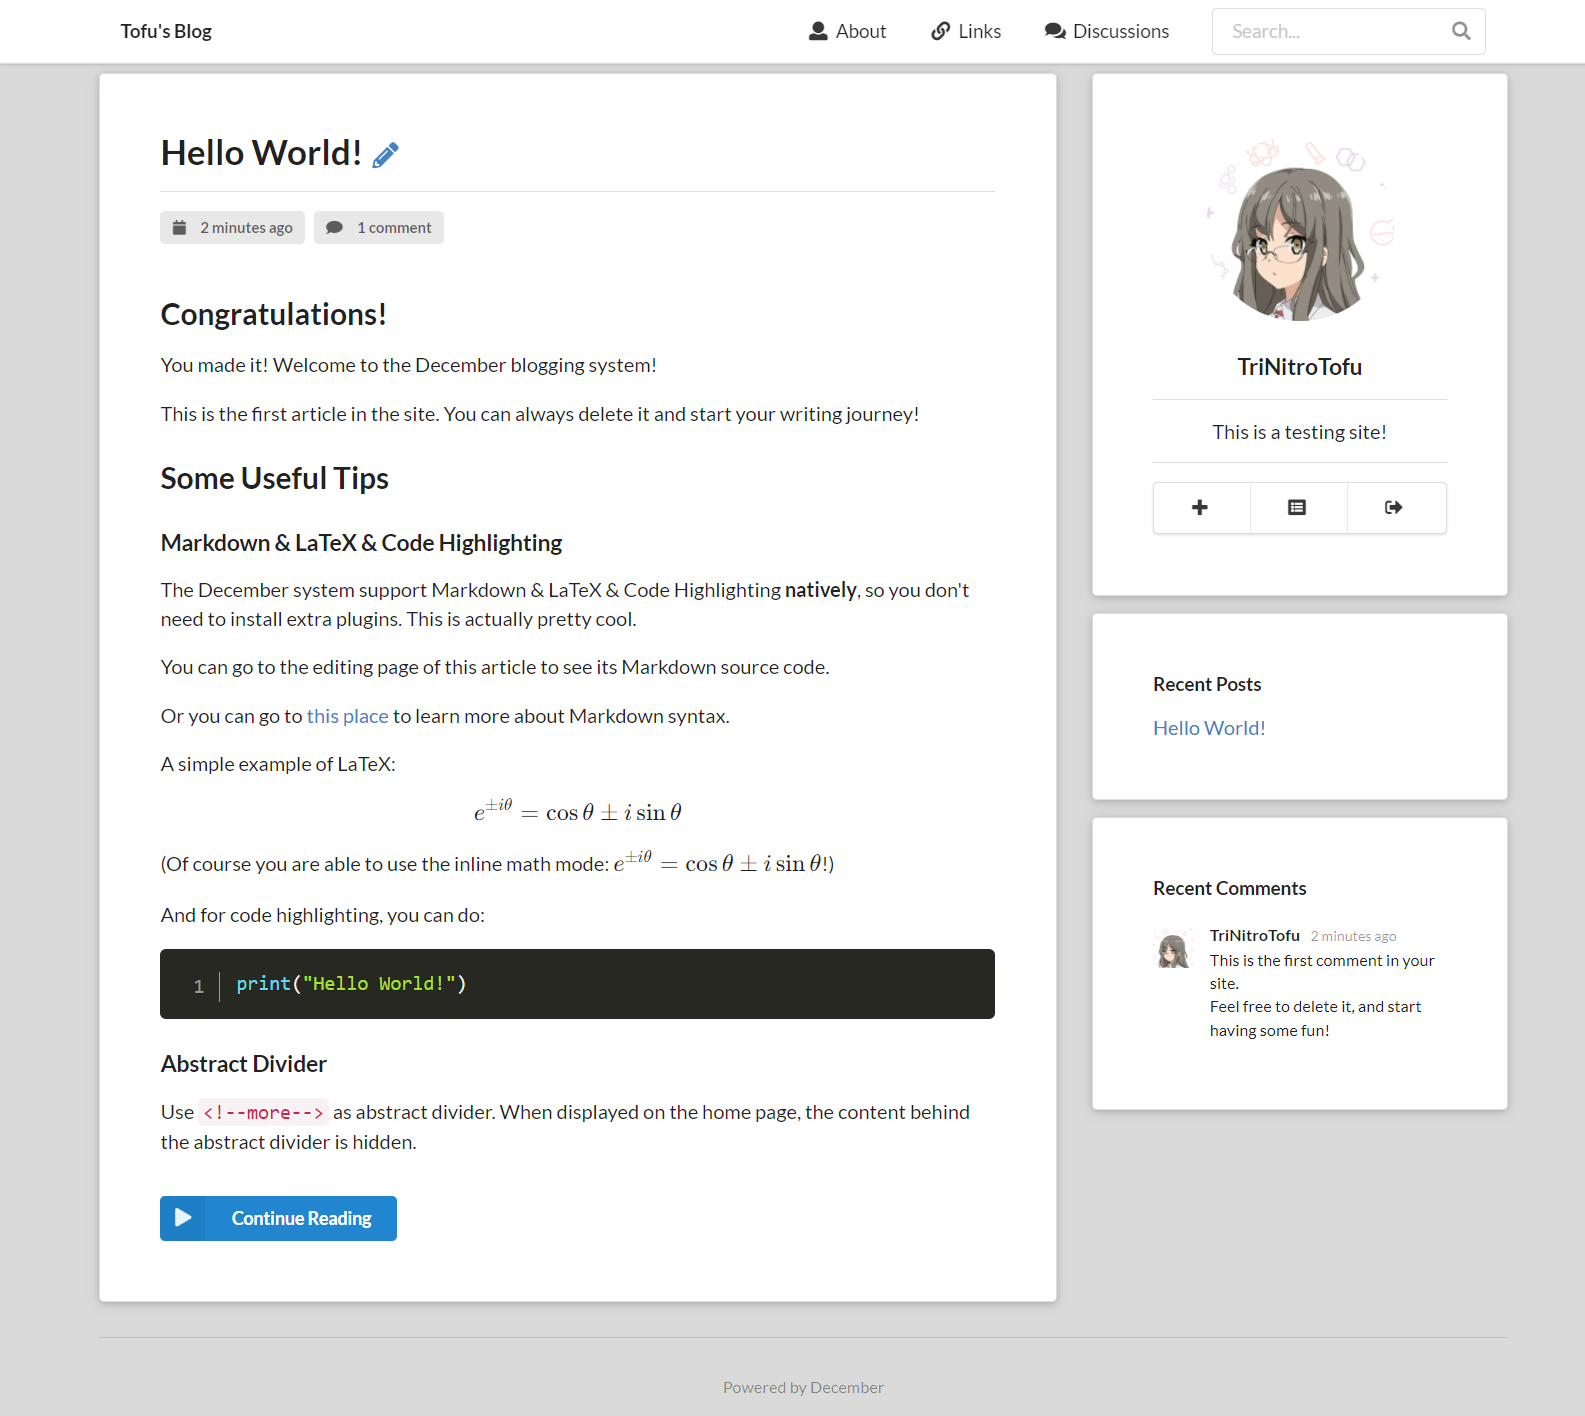
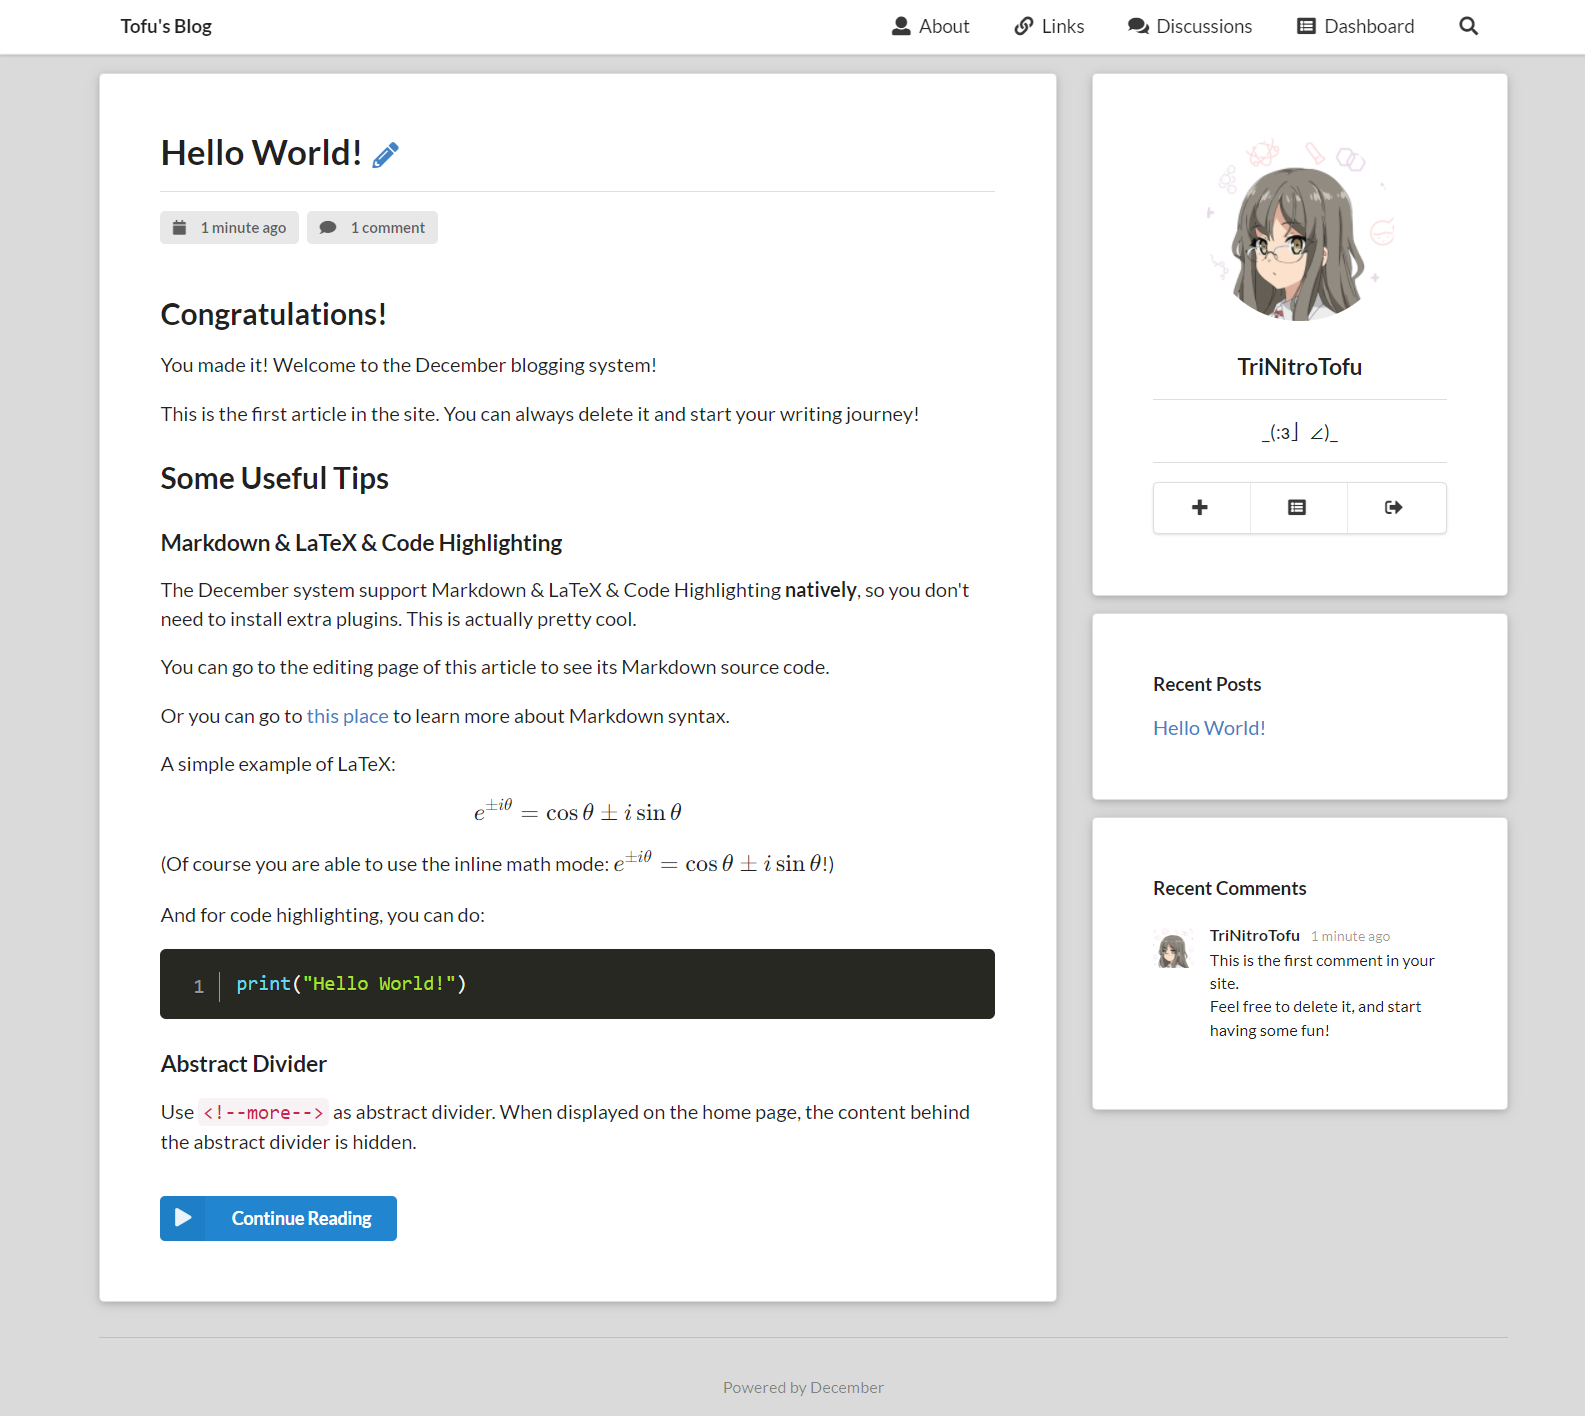
1.4.1

diff --git a/December/templates/edit_comment.html b/December/templates/edit_comment.html
@@ -33,7 +33,7 @@
               </a>
             </h4>
             <div class="required field">
-              <textarea name="comment-content" rows="16" required>{{ comment_content }}</textarea>
+              <textarea name="comment-content" rows="18" required>{{ comment_content }}</textarea>
             </div>
             <button id="save-btn" class="ui primary labeled submit icon button" type="submit">
               <i class="save icon"></i> Save
@@ -41,29 +41,34 @@
             <div id="delete-btn" class="ui red labeled submit icon button">
               <i class="trash icon"></i> Delete
             </div>
-            <div class="ui tiny modal">
-              <i class="close icon"></i>
-              <div class="header">
-                Warning
+            <div id="delete-modal" class="ui basic tiny modal">
+              <div class="ui header">
+                Warning!
               </div>
               <div class="content">
-                  <p>Are you sure you want to delete this comment?</p>
-                  <p>This will also delete all subcomments belonging to this comment.</p>
-                  <p>This action cannot be undone!</p>
+                <p>Are you sure you want to delete this comment?</p>
+                <p>This will also delete all replies belonging to this comment.</p>
+                <p>This action cannot be undone!</p>
               </div>
               <div class="actions">
-                <div id="modal-cancel" class="ui button">Cancel</div>
-                <div id="modal-confirm" class="ui red button">Delete</div>
+                <div class="ui basic cancel inverted button">
+                  <i class="remove icon"></i>
+                  Cancel
+                </div>
+                <div class="ui red confirm inverted button">
+                  <i class="trash icon"></i>
+                  Delete
+                </div>
               </div>
             </div>
             <script>
               $('#delete-btn').click(function() {
-                $('.ui.modal').modal('show');
+                $('#delete-modal').modal('show');
               });
-              $('#modal-cancel').click(function() {
-                $('.ui.modal').modal('hide');
+              $('#delete-modal .cancel').click(function() {
+                $('#delete-modal').modal('hide');
               });
-              $('#modal-confirm').click(function() {
+              $('#delete-modal .confirm').click(function() {
                 window.location.href = "/admin/edit-comment/{{ cid }}?action=delete"
               });
             </script>

diff --git a/December/templates/edit.html b/December/templates/edit.html
@@ -49,29 +49,34 @@
             <div id="delete-btn" class="ui red labeled submit icon button">
               <i class="trash icon"></i> Delete
             </div>
-            <div class="ui tiny modal">
-              <i class="close icon"></i>
-              <div class="header">
-                Warning
+            <div id="delete-modal" class="ui basic tiny modal">
+              <div class="ui header">
+                Warning!
               </div>
               <div class="content">
-                  <p>Are you sure you want to delete this article?</p>
-                  <p>This will also delete all comments belonging to this article.</p>
-                  <p>This action cannot be undone!</p>
+                <p>Are you sure you want to delete this article?</p>
+                <p>This will also delete all comments belonging to this article.</p>
+                <p>This action cannot be undone!</p>
               </div>
               <div class="actions">
-                <div id="modal-cancel" class="ui button">Cancel</div>
-                <div id="modal-confirm" class="ui red button">Delete</div>
+                <div class="ui basic cancel inverted button">
+                  <i class="remove icon"></i>
+                  Cancel
+                </div>
+                <div class="ui red confirm inverted button">
+                  <i class="trash icon"></i>
+                  Delete
+                </div>
               </div>
             </div>
             <script>
               $('#delete-btn').click(function() {
-                $('.ui.modal').modal('show');
+                $('#delete-modal').modal('show');
               });
-              $('#modal-cancel').click(function() {
-                $('.ui.modal').modal('hide');
+              $('#delete-modal .cancel').click(function() {
+                $('#delete-modal').modal('hide');
               });
-              $('#modal-confirm').click(function() {
+              $('#delete-modal .confirm').click(function() {
                 window.location.href = "/admin/edit/{{ pid }}?action=delete"
               });
             </script>

diff --git a/December/templates/media.html b/December/templates/media.html
@@ -60,7 +60,7 @@
             <tbody>
               {% for i in media_list %}
               <tr>
-                <td>
+                <td style="word-break: break-all;">
                   <a href="/media/{{ i.path }}" target="_blank">{{ i.name }}</a>
                 </td>
                 <td>{{ i.time }}</td>
@@ -85,30 +85,35 @@
       </div>
     </div>
   </div>
-  <div class="ui tiny modal">
-    <i class="close icon"></i>
-    <div class="header">
-      Warning
+  <div id="delete-modal" class="ui basic tiny modal">
+    <div class="ui header">
+      Warning!
     </div>
     <div class="content">
-        <p>Are you sure you want to delete this file?</p>
-        <p>This action cannot be undone!</p>
+      <p>Are you sure you want to delete this file?</p>
+      <p>This action cannot be undone!</p>
     </div>
     <div class="actions">
-      <div id="modal-cancel" class="ui button">Cancel</div>
-      <div id="modal-confirm" class="ui red button">Delete</div>
+      <div class="ui basic cancel inverted button">
+        <i class="remove icon"></i>
+        Cancel
+      </div>
+      <div class="ui red confirm inverted button">
+        <i class="trash icon"></i>
+        Delete
+      </div>
     </div>
   </div>
   <script>
     var delete_mid = 0;
     $('.delete-btn').click(function() {
       delete_mid = $(this).attr("data-media-id");
-      $('.ui.modal').modal('show');
+      $('#delete-modal').modal('show');
     });
-    $('#modal-cancel').click(function() {
-      $('.ui.modal').modal('hide');
+    $('#delete-modal .cancel').click(function() {
+      $('#delete-modal').modal('hide');
     });
-    $('#modal-confirm').click(function() {
+    $('#delete-modal .confirm').click(function() {
       window.location.href = "/admin/media?action=delete&mid=" + delete_mid;
     });
   </script>

diff --git a/December/templates/archives.html b/December/templates/archives.html
@@ -4,17 +4,18 @@
     {% for i in page_links %}
     <a class="item" href="{{ i.1 }}">{{ i.0|safe }}</a>
     {% endfor %}
-    {% if not logged_in %}
+    {% if logged_in %}
+    <a class="item" href="/admin">
+      <i class="list alternate icon"></i>Dashboard
+    </a>
+    {% else %}
     <a class="item" href="/login">
       <i class="sign in alternate icon"></i>Sign in
     </a>
     {% endif %}
-    <form class="item" action="/" method="get">
-      <div class="ui transparent icon input">
-        <input type="text" name="s" placeholder="Search..." value="{{ search_value }}">
-        <i class="search-btn search link icon"></i>
-      </div>
-    </form>
+    <a class="search item">
+      <i class="search icon"></i>Search
+    </a>
   </div>
   <div class="pusher">
     <div class="ui top fixed large borderless menu">
@@ -24,17 +25,18 @@
           {% for i in page_links %}
           <a class="item" href="{{ i.1 }}">{{ i.0|safe }}</a>
           {% endfor %}
-          {% if not logged_in %}
+          {% if logged_in %}
+          <a class="item" href="/admin">
+            <i class="list alternate icon"></i>Dashboard
+          </a>
+          {% else %}
           <a class="item" href="/login">
             <i class="sign in alternate icon"></i>Sign in
           </a>
           {% endif %}
-          <form class="item" action="/" method="get">
-            <div class="ui icon input">
-              <input type="text" name="s" placeholder="Search..." value="{{ search_value }}">
-              <i class="search-btn search link icon"></i>
-            </div>
-          </form>
+          <a class="search item">
+            <i class="search icon"></i>
+          </a>
         </div>
         <a class="toc right item">
           <i class="sidebar icon"></i>

diff --git a/December/templates/index.html b/December/templates/index.html
@@ -4,17 +4,18 @@
     {% for i in page_links %}
     <a class="item" href="{{ i.1 }}">{{ i.0|safe }}</a>
     {% endfor %}
-    {% if not logged_in %}
+    {% if logged_in %}
+    <a class="item" href="/admin">
+      <i class="list alternate icon"></i>Dashboard
+    </a>
+    {% else %}
     <a class="item" href="/login">
       <i class="sign in alternate icon"></i>Sign in
     </a>
     {% endif %}
-    <form class="item" action="/" method="get">
-      <div class="ui transparent icon input">
-        <input type="text" name="s" placeholder="Search..." value="{{ search_value }}">
-        <i class="search-btn search link icon"></i>
-      </div>
-    </form>
+    <a class="search item">
+      <i class="search icon"></i>Search
+    </a>
   </div>
   <div class="pusher">
     <div class="ui top fixed large borderless menu">
@@ -24,17 +25,18 @@
           {% for i in page_links %}
           <a class="item" href="{{ i.1 }}">{{ i.0|safe }}</a>
           {% endfor %}
-          {% if not logged_in %}
+          {% if logged_in %}
+          <a class="item" href="/admin">
+            <i class="list alternate icon"></i>Dashboard
+          </a>
+          {% else %}
           <a class="item" href="/login">
             <i class="sign in alternate icon"></i>Sign in
           </a>
           {% endif %}
-          <form class="item" action="/" method="get">
-            <div class="ui icon input">
-              <input type="text" name="s" placeholder="Search..." value="{{ search_value }}">
-              <i class="search-btn search link icon"></i>
-            </div>
-          </form>
+          <a class="search item">
+            <i class="search icon"></i>
+          </a>
         </div>
         <a class="toc right item">
           <i class="sidebar icon"></i>

diff --git a/December/templates/footer.html b/December/templates/footer.html
@@ -21,7 +21,30 @@
   </script>
   {% endif %}
   {% if page_type == 'index' or page_type == 'archives' %}
+  <div id="search-modal" class="ui mini modal">
+    <i class="close icon"></i>
+    <div class="header">
+      Search...
+    </div>
+    <div class="content">
+      <form class="ui form" action="/" method="get">
+        <div class="field">
+          <div class="ui action input">
+            <input type="text" name="s" value="{{ search_value }}">
+            <button class="ui primary icon button">
+              <i class="search icon"></i>
+            </button>
+          </div>
+        </div>
+      </form>
+    </div>
+  </div>
   <script>
+    $('.ui.menu .item.search').click(function() {
+      $('#search-modal')
+        .modal('setting', 'closable', false)
+        .modal('show');
+    });
     $('pre').addClass("line-numbers");
     $('.post-content img').addClass("ui rounded image");
     $('.post-content table').addClass("ui celled unstackable table");

diff --git a/December/templates/admin.html b/December/templates/admin.html
@@ -60,19 +60,22 @@
                   <th>Title</th>
                   <th>Type</th>
                   <th>Time</th>
+                  <th>Edit</th>
                 </tr>
               </thead>
               <tbody>
                 {% for i in post_list %}
                 <tr>
-                  <td>
+                  <td style="word-break: break-all;">
                     <a href="/archives/{{ i.pid }}">{{ i.title }}</a>{%if i.protected %} <i class="lock icon"></i>{% endif %}
+                  </td>
+                  <td>{{ i.type }}</td>
+                  <td>{{ i.time }}</td>
+                  <td class="collapsing center aligned">
                     <a href="/admin/edit/{{ i.pid }}">
                       <i class="pencil alternate icon"></i>
                     </a>
                   </td>
-                  <td>{{ i.type }}</td>
-                  <td>{{ i.time }}</td>
                 </tr>
                 {% endfor %}
               </tbody>

diff --git a/December/static/css/december.css b/December/static/css/december.css
@@ -6,7 +6,7 @@ body, .pusher {
     display: none;
 }
 
-@media only screen and (max-width: 723px) {
+@media only screen and (max-width: 768px) {
     .top.fixed.borderless.menu .toc.right.item {
         display: flex;
     }

diff --git a/December/December/views.py b/December/December/views.py
@@ -634,6 +634,7 @@ def media_page(request):
         if not media_exist(mid):
             raise Http404("File does not exist")
         delete_media(mid)
+        messages.success(request, "The file was deleted successfully.")
         return redirect("/admin/media")
     page = request.GET.get("page", "1")
     search = request.GET.get("search", "")

diff --git a/README.md b/README.md
@@ -264,6 +264,11 @@ You may need to use the SMTP service to send notifications to yourself or to oth
 
 ## Release History
 
+### 1.4.1
+
++ Optimise navigation bar and search box display
++ Optimise some of the appearances and effects
+
 ### 1.4
 
 + Optimize editor style using [CodeMirror](https://codemirror.net/)
